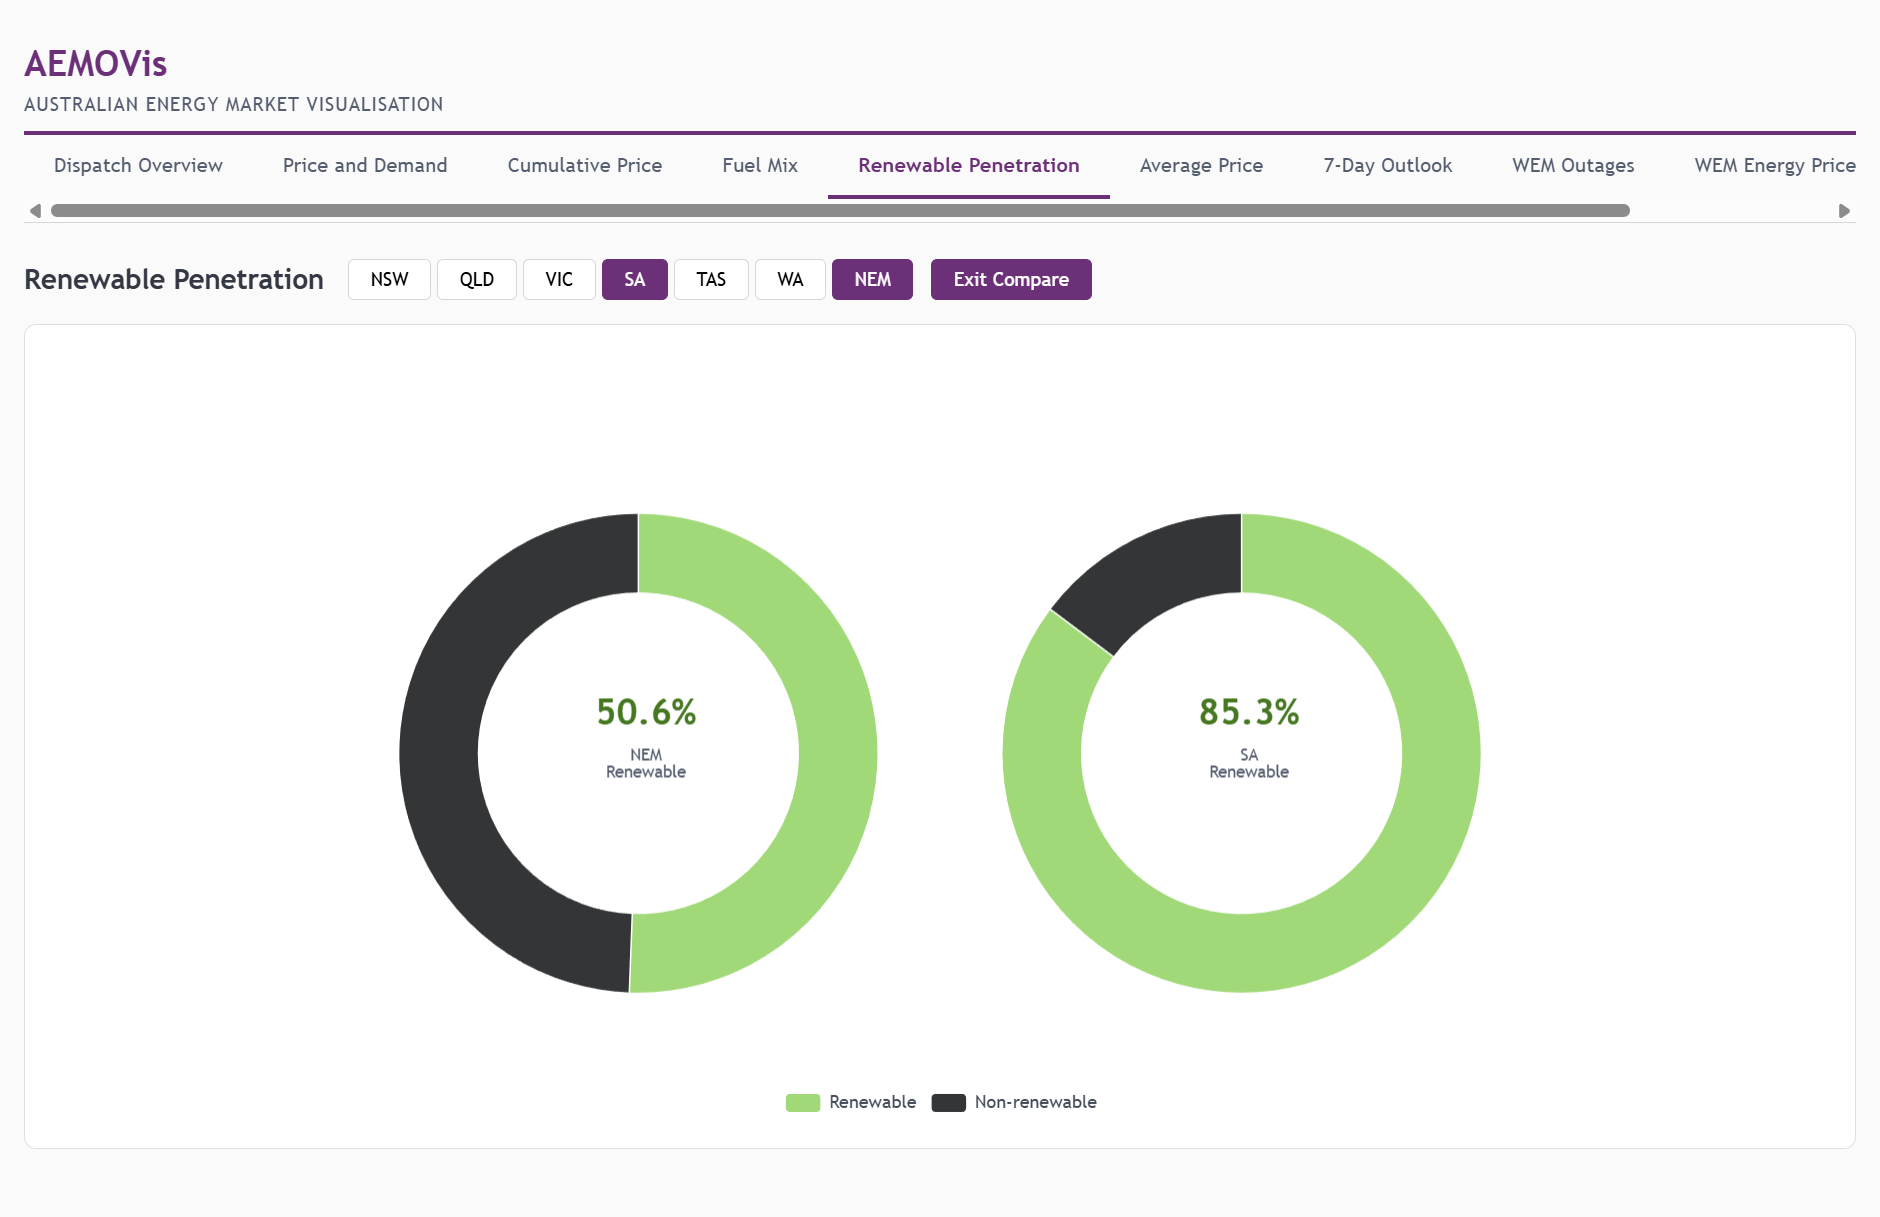
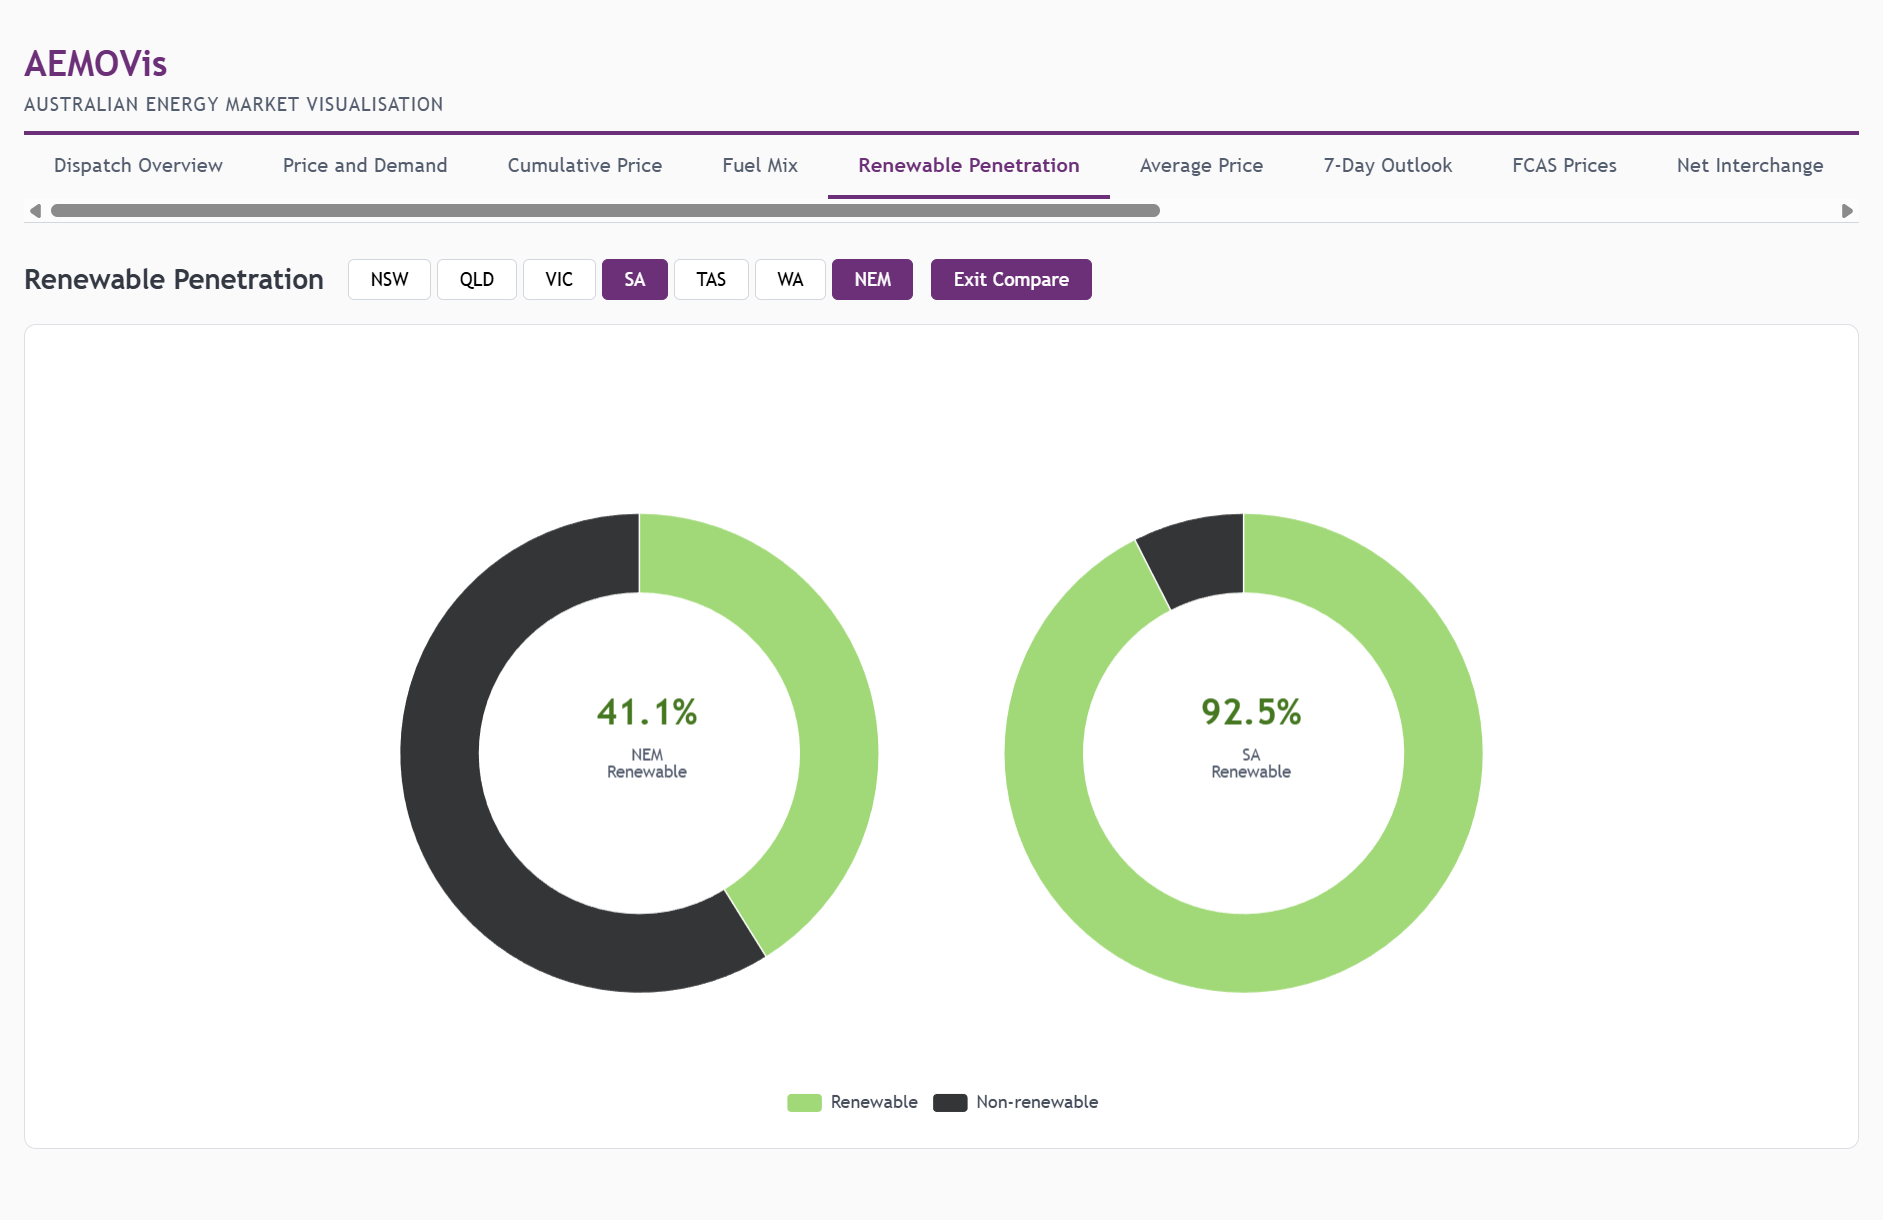
Update walkthrough with new pages and data source documentation
- Add 5 new page sections: FCAS Prices, Net Interchange, WA Dispatch,
  WA Reserves, WA Gen Map
- Add data source tables to all sections (endpoints, freshness,
  poll intervals, key fields)
- Update all screenshots with current UI state
- Renumber screenshots 8-15 to accommodate new pages
- Expand Technical Notes with architecture and API quirks

diff --git a/docs/AEMOVis-Walkthrough.md b/docs/AEMOVis-Walkthrough.md
@@ -14,7 +14,7 @@ The core design principle is that **markets are not first-class citizens — the
 
 ### Key Features
 
-- **10 visualisation pages** covering price, demand, generation, fuel mix, renewables, outlook, and outages
+- **15 visualisation pages** covering price, demand, generation, fuel mix, renewables, outlook, reserves, and outages
 - **Compare mode** on applicable pages — overlay XY charts or display side-by-side pie/donut charts for multiple regions simultaneously
 - **Live polling** with 60-second refresh and stale-data guards
 - **Responsive layout** for desktop, tablet, and mobile
@@ -30,9 +30,14 @@ The core design principle is that **markets are not first-class citizens — the
 5. [Renewable Penetration](#5-renewable-penetration)
 6. [Average Price](#6-average-price)
 7. [7-Day Outlook](#7-7-day-outlook)
-8. [WEM Outages](#8-wem-outages)
-9. [WEM Energy Price](#9-wem-energy-price)
-10. [DPV vs Demand](#10-dpv-vs-demand)
+8. [FCAS Prices](#8-fcas-prices)
+9. [Net Interchange](#9-net-interchange)
+10. [WEM Outages](#10-wem-outages)
+11. [WEM Energy Price](#11-wem-energy-price)
+12. [DPV vs Demand](#12-dpv-vs-demand)
+13. [WA Dispatch](#13-wa-dispatch)
+14. [WA Reserves](#14-wa-reserves)
+15. [WA Gen Map](#15-wa-gen-map)
 
 ---
 
@@ -44,6 +49,16 @@ The landing page provides a bird's-eye view of all six NEM regions (NSW, QLD, VI
 - **Demand vs generation** horizontal bars show supply-demand balance
 - **Interconnector flows** table shows import/export between neighbouring regions
 - WA is sourced from the WEM pulse feed; NEM regions from the AEMO dispatch API
+
+### Data Source
+
+| Aspect | NEM | WEM |
+|--------|-----|-----|
+| **Endpoint** | `/NEM/v1/PWS/NEMDashboard/elecSummary` | `pulse.csv` |
+| **Base URL** | `dashboards.public.aemo.com.au` | `data.wa.aemo.com.au` |
+| **Freshness** | 4.5 minutes | 25 minutes |
+| **Poll interval** | 60 seconds | 60 seconds |
+| **Fields** | `summary[]` (price, demand, gen, interconnectorFlows) | `TRADING_DAY_INTERVAL`, `ENERGY_PRICE`, `TOTAL_GEN_MW`, `TOTAL_DEMAND_MW` |
 
 ![Dispatch Overview](screenshots/01-dispatch-overview.png)
 
@@ -63,6 +78,15 @@ A dual-axis time-series chart showing spot price ($/MWh, left axis) and demand (
 
 Click **Compare** to overlay multiple regions on the same chart. Each region gets a distinct colour. Price lines are solid, demand lines are dashed. Forecast data appears as dotted lines. The APC marker is shown when at least one NEM region is selected.
 
+### Data Source
+
+| Aspect | NEM | WEM |
+|--------|-----|-----|
+| **Endpoint** | `/NEM/v1/PWS/NEMDashboard/priceAndDemand?timescale={5MIN|30MIN}` | `pulse.csv` |
+| **Freshness** | 4.5 minutes | 25 minutes |
+| **Time range** | ~2 days actuals + forecast | ~4 days rolling |
+| **Fields** | `rrp`, `totalDemand`, `forecastedRrp`, `forecastedDemand` | `ENERGY_PRICE`, `TOTAL_DEMAND_MW` |
+
 ![Price and Demand — Single Region](screenshots/02-price-demand.png)
 
 ![Price and Demand — Compare Mode (NSW vs QLD)](screenshots/02b-price-demand-compare.png)
@@ -76,6 +100,15 @@ Tracks the running cumulative price sum across the trading day for each NEM regi
 - **Per-region cumulative totals** updated every dispatch interval
 - **CPT threshold line** marks the trigger level
 - WA is not applicable (WEM has a different pricing mechanism)
+
+### Data Source
+
+| Aspect | Value |
+|--------|-------|
+| **Endpoint** | `/NEM/v1/PWS/NEMDashboard/cumulativePrice` |
+| **Freshness** | 4.5 minutes |
+| **Market** | NEM only |
+| **Fields** | `cumulativePrice` per region, `cpt` threshold |
 
 ![Cumulative Price](screenshots/03-cumulative-price.png)
 
@@ -94,6 +127,14 @@ A donut chart breaking down current generation by fuel type for the selected reg
 
 Click **Compare** to see side-by-side pie charts for multiple regions. Pies are evenly distributed across the width and auto-size — radius shrinks gracefully as more regions are added.
 
+### Data Source
+
+| Aspect | NEM | WEM |
+|--------|-----|-----|
+| **Endpoint** | `/NEM/v1/PWS/NEMDashboard/fuelMix?type=CURRENT` | `generation.csv` + `facility-meta-fuelmix.csv` |
+| **Freshness** | 4.5 minutes | 55 minutes |
+| **Fields** | `fuelType`, `generationMW` | Joined via `FACILITY_CODE` to get `PRIMARY_FUEL` |
+
 ![Fuel Mix — NEM Aggregate](screenshots/04-fuel-mix.png)
 
 ![Fuel Mix — Compare Mode (NEM vs NSW)](screenshots/04b-fuel-mix-compare.png)
@@ -105,12 +146,16 @@ Click **Compare** to see side-by-side pie charts for multiple regions. Pies are 
 A donut chart showing the percentage of current generation from renewable sources (wind, solar, hydro, biomass, battery, rooftop PV) versus non-renewable sources. The percentage is displayed prominently in the centre.
 
 - **Region selector** — individual NEM regions, WA, or NEM aggregate
-- Renewable classification covers: Wind, Solar, Hydro, Biomass, Battery, Rooftop PV, Distributed PV, Utility-scale Solar, Dpv
+- Renewable classification covers: Wind, Solar, Hydro, Biomass, Battery, Rooftop PV, Distributed PV, Utility-scale Solar
 - Green/dark colour scheme for clear visual distinction
 
 ### Compare Mode
 
 Click **Compare** to see side-by-side donut charts showing renewable penetration for multiple regions simultaneously. Each donut displays its region label and percentage, making cross-regional comparison immediate.
+
+### Data Source
+
+Same as Fuel Mix — derived by classifying fuel types as renewable/non-renewable.
 
 ![Renewable Penetration — NEM Aggregate](screenshots/05-renewable-penetration.png)
 
@@ -126,6 +171,14 @@ Displays the average spot price for each NEM region as a bar chart, derived from
 - Colour-coded by region for quick identification
 - Useful for spotting sustained price divergence between states
 
+### Data Source
+
+| Aspect | NEM | WEM |
+|--------|-----|-----|
+| **Endpoint** | `/NEM/v1/PWS/NEMDashboard/dailyAveragePrices?year={YYYY}&month={MM}` | `pulse.csv` |
+| **Freshness** | 4.5 minutes | 25 minutes |
+| **Calculation** | Pre-aggregated by AEMO | Computed from `ENERGY_PRICE` time series |
+
 ![Average Price](screenshots/06-average-price.png)
 
 ---
@@ -139,11 +192,72 @@ A tabular view of AEMO's Short Term Projected Assessment of System Adequacy (ST 
 - Critical for operational planning and market participant decision-making
 - NEM only — WEM outlook data is not available via the same API
 
+### Data Source
+
+| Aspect | Value |
+|--------|-------|
+| **Endpoint** | `/NEM/v1/PWS/NEMDashboard/sevenDayOutlook` |
+| **Freshness** | 4.5 minutes |
+| **Market** | NEM only |
+| **Fields** | `prettyDate`, `regionId`, `dataType`, `dataValue` (pivoted into table) |
+
 ![7-Day Outlook](screenshots/07-seven-day-outlook.png)
 
 ---
 
-## 8. WEM Outages
+## 8. FCAS Prices
+
+A heatmap displaying **Frequency Control Ancillary Services (FCAS)** prices across all NEM regions. FCAS markets are essential for maintaining grid frequency stability — generators and loads are paid to provide rapid response services.
+
+- **Heatmap** with regions on the Y-axis, FCAS services on the X-axis
+- **Colour intensity** represents price (blue scale: light = low, dark = high)
+- **10 FCAS services** displayed: Raise/Lower for 1s, 6s, 60s, 5m, and Regulation
+- **KPI row** shows average energy price, average FCAS price, highest FCAS price, and peak service/region
+
+### FCAS Services Explained
+
+| Service | Purpose |
+|---------|---------|
+| Raise 1s/6s/60s/5m | Increase generation/reduce load to raise frequency |
+| Lower 1s/6s/60s/5m | Decrease generation/increase load to lower frequency |
+| Raise/Lower Reg | Continuous regulation to maintain 50Hz |
+
+### Data Source
+
+| Aspect | Value |
+|--------|-------|
+| **Endpoint** | `/NEM/v1/PWS/NEMDashboard/elecSummary` (prices array) |
+| **Freshness** | 4.5 minutes |
+| **Market** | NEM only |
+| **Fields** | `raise1SecRrp`, `raise6SecRrp`, `raise60SecRrp`, `raise5MinRrp`, `raiseRegRrp`, `lower1SecRrp`, `lower6SecRrp`, `lower60SecRrp`, `lower5MinRrp`, `lowerRegRrp` |
+
+![FCAS Prices](screenshots/08-fcas-prices.png)
+
+---
+
+## 9. Net Interchange
+
+Shows import/export flows between NEM regions over time. Positive values indicate a region is exporting power; negative values indicate importing. Also includes a **Gen Breakdown** toggle to view scheduled vs semi-scheduled generation.
+
+- **Bar chart** showing net interchange per region over time
+- **Colour coding**: green = exporting, red = importing
+- **Region toggles** to filter which regions are displayed
+- **Gen Breakdown** mode shows stacked area of scheduled (dispatchable) vs semi-scheduled (wind/solar) generation
+
+### Data Source
+
+| Aspect | Value |
+|--------|-------|
+| **Endpoint** | `/NEM/v1/PWS/NEMDashboard/priceAndDemand?timescale=30MIN` |
+| **Freshness** | 4.5 minutes |
+| **Market** | NEM only |
+| **Fields** | `netInterchange`, `scheduledGeneration`, `semiScheduledGeneration` |
+
+![Net Interchange](screenshots/09-net-interchange.png)
+
+---
+
+## 10. WEM Outages
 
 Displays currently reported generation outages in the Western Australian Wholesale Electricity Market. When outages are active, they are listed with facility name, capacity affected, and outage type. When no outages are reported, a clear status message is shown.
 
@@ -152,21 +266,41 @@ Displays currently reported generation outages in the Western Australian Wholesa
 - Sourced from the WEM outage CSV feed
 - WEM-only page (NEM outage data uses a different reporting mechanism)
 
-![WEM Outages](screenshots/08-wem-outages.png)
+### Data Source
+
+| Aspect | Value |
+|--------|-------|
+| **Endpoint** | `pulse.csv` (outage columns) |
+| **Base URL** | `data.wa.aemo.com.au` |
+| **Freshness** | 25 minutes |
+| **Market** | WEM only |
+| **Fields** | `OUTAGE_GEN_MW`, facility outage flags |
+
+![WEM Outages](screenshots/10-wem-outages.png)
 
 ---
 
-## 9. WEM Energy Price
+## 11. WEM Energy Price
 
-> **Note:** This page is flagged as a duplicate. It overlaps with the Price and Demand page when WA is selected. Flagged for removal in a future update.
+> **Note:** This page overlaps with Price and Demand when WA is selected. Retained for direct WEM-focused access.
 
 A simple time-series chart showing the WEM energy price over the rolling ~4-day window from the pulse feed. The current spot price KPI is displayed above the chart.
 
-![WEM Energy Price (Deprecated)](screenshots/09-wem-energy-price.png)
+### Data Source
+
+| Aspect | Value |
+|--------|-------|
+| **Endpoint** | `pulse.csv` |
+| **Base URL** | `data.wa.aemo.com.au` |
+| **Freshness** | 25 minutes |
+| **Market** | WEM only |
+| **Fields** | `TRADING_DAY_INTERVAL`, `ENERGY_PRICE` |
+
+![WEM Energy Price](screenshots/11-wem-energy-price.png)
 
 ---
 
-## 10. DPV vs Demand
+## 12. DPV vs Demand
 
 A dual-axis chart specific to Western Australia, showing the relationship between grid operational demand and distributed photovoltaic (rooftop solar) generation. This is particularly important in WA where rooftop solar penetration is among the highest in the world and significantly impacts grid operations.
 
@@ -176,14 +310,141 @@ A dual-axis chart specific to Western Australia, showing the relationship betwee
 - The inverse relationship between DPV and demand is clearly visible: as solar output rises during the day, net demand drops
 - WEM-only page sourced from the DPV/operational demand CSV feed
 
-![DPV vs Demand](screenshots/10-dpv-vs-demand.png)
+### Data Source
+
+| Aspect | Value |
+|--------|-------|
+| **Endpoint** | `distributed-pv_opdemand.csv` |
+| **Base URL** | `data.wa.aemo.com.au/public/infographic/dpvopdemand/` |
+| **Freshness** | 25 minutes |
+| **Market** | WEM only |
+| **Fields** | `TRADING_INTERVAL`, `OPERATIONAL_DEMAND_MW`, `ESTIMATED_DPV_MW` |
+
+![DPV vs Demand](screenshots/12-dpv-vs-demand.png)
+
+---
+
+## 13. WA Dispatch
+
+A stacked area chart showing WA generation by fuel type over 2 days (96 × 30-minute intervals), with a price line overlay. This provides a detailed view of Western Australia's generation mix and how it correlates with price movements.
+
+- **Stacked area** by fuel type (Gas, Coal, Wind, Solar, Battery, etc.)
+- **Price overlay** (red line, right axis) shows energy price trajectory
+- **KPI row** — current generation, current price, peak generation, capacity utilization
+- Fuels ordered by standard hierarchy: Coal → Gas → Hydro → Wind → Solar → Battery → Biomass
+
+### Data Source
+
+| Aspect | Value |
+|--------|-------|
+| **Generation endpoint** | `generation.csv` |
+| **Metadata endpoint** | `facility-meta-fuelmix.csv` |
+| **Price endpoint** | `pulse.csv` |
+| **Base URL** | `data.wa.aemo.com.au` |
+| **Freshness** | Generation: 55 min, Pulse: 25 min, Metadata: 1 hour |
+| **Market** | WEM only |
+| **Fields** | `I01`–`I48` (interval generation), `FACILITY_CODE`, `PRIMARY_FUEL`, `MAX_GEN_CAPACITY` |
+
+![WA Dispatch](screenshots/13-wa-dispatch.png)
+
+---
+
+## 14. WA Reserves
+
+Displays spinning reserve, LFAS (Load Following Ancillary Service) requirements, and forecast vs actual generation in the WEM. Essential for monitoring WA grid stability margins.
+
+- **Forecast Demand** (dashed blue) — AEMO's demand forecast
+- **Actual Generation** (solid teal) — real-time total generation
+- **RTD Generation** (green) — Real-Time Dispatch generation
+- **LFAS Up Requirement** (purple, right axis) — load following reserve requirement
+- **Spinning Reserve** (red, right axis) — available spinning reserve
+- **KPI row** — LFAS requirement, spinning reserve, actual generation, forecast accuracy
+
+### Data Source
+
+| Aspect | Value |
+|--------|-------|
+| **Endpoint** | `pulse.csv` |
+| **Base URL** | `data.wa.aemo.com.au` |
+| **Freshness** | 25 minutes |
+| **Market** | WEM only |
+| **Fields** | `RTD_TOTAL_SPINNING_RESERVE`, `LFAS_UP_REQUIREMENT_MW`, `FORECAST_EOI_MW`, `ACTUAL_TOTAL_GENERATION`, `RTD_TOTAL_GENERATION` |
+
+![WA Reserves](screenshots/14-wa-reserves.png)
+
+---
+
+## 15. WA Gen Map
+
+A geographic map of Western Australia with scatter overlay showing all registered generation facilities. Each facility is positioned by latitude/longitude, sized by current output, and coloured by fuel type.
+
+- **Scatter overlay** on Australia map (WA highlighted)
+- **Symbol size** proportional to current MW output
+- **Colour by fuel type** — consistent with other fuel mix visualisations
+- **Legend filtering** — click fuel types to show/hide
+- **KPI row** — data timestamp, total facilities, generating facilities, total output, installed capacity
+- Pan and zoom enabled for detailed exploration
+
+### Data Source
+
+| Aspect | Value |
+|--------|-------|
+| **Generation endpoint** | `generation.csv` |
+| **Metadata endpoint** | `facility-meta-fuelmix.csv` |
+| **Base URL** | `data.wa.aemo.com.au` |
+| **Freshness** | Generation: 55 min, Metadata: 1 hour |
+| **Market** | WEM only |
+| **Fields** | `I01` (current output), `MAX_GEN_CAPACITY`, `LATITUDE`, `LONGITUDE`, `PRIMARY_FUEL`, `DISPLAY_NAME` |
+| **GeoJSON** | Australia states (WA region highlighted) |
+
+**Note:** Some facility coordinates in AEMO metadata are incorrect (defaulting to Perth CBD). The application includes coordinate corrections for known facilities based on Global Energy Observatory, Wikipedia, and planning documents.
+
+![WA Gen Map](screenshots/15-wa-gen-map.png)
 
 ---
 
 ## Technical Notes
 
-- **Data sources:** NEM data via AEMO's public REST API; WEM data via AEMO's IIS-hosted CSV feeds
-- **Polling:** All data atoms refresh on a 60-second interval with freshness guards to avoid redundant fetches
-- **Charting:** Built with Apache ECharts for high-performance, interactive visualisations
-- **Architecture:** Vanilla JavaScript SPA with nanostores for reactive state management, ky for HTTP, and PapaParse for CSV parsing
-- **Compare mode:** Available on Price and Demand, Fuel Mix, and Renewable Penetration pages. XY charts use overlaid series with region-specific colours; pie/donut charts use side-by-side positioning with adaptive sizing
+### Architecture
+
+- **Framework:** Vanilla JavaScript SPA (no React/Vue/Angular)
+- **Charting:** Apache ECharts 6.x for high-performance, interactive visualisations
+- **State:** nanostores for reactive atom-based state management
+- **HTTP:** ky for NEM REST API (with retry/timeout), native fetch for WEM CSVs
+- **CSV Parsing:** PapaParse for WEM data files
+- **Mapping:** ECharts geo component with Australia GeoJSON
+
+### Data Sources Summary
+
+| Market | Base URL | Format | Auth |
+|--------|----------|--------|------|
+| NEM | `dashboards.public.aemo.com.au` | JSON REST | API key (public) |
+| WEM | `data.wa.aemo.com.au` | CSV files | None (CORS open) |
+
+### Polling & Freshness
+
+The application uses a dual-layer freshness system:
+
+1. **fetchIfStale()** — On page mount, only fetches if data is older than freshness threshold
+2. **Poller** — Background 60-second interval checks freshness before refetch
+
+| Data Type | Freshness | Poll Interval |
+|-----------|-----------|---------------|
+| NEM API data | 4.5 minutes | 60 seconds |
+| WEM pulse.csv | 25 minutes | 60 seconds |
+| WEM generation.csv | 55 minutes | 60 seconds |
+| WEM facility metadata | 1 hour | 60 seconds |
+
+### WEM API Quirks
+
+- **Accept header required:** WEM's IIS server returns 406 unless a browser-style Accept header is sent
+- **CSV format:** All WEM data is CSV (not JSON)
+- **No JSON APIs:** Historical JSON endpoints (ReferenceTradingPrice, EssentialServicesPricing) return 404
+
+### Compare Mode
+
+Available on: **Price and Demand**, **Fuel Mix**, and **Renewable Penetration**
+
+- XY charts use overlaid series with region-specific colours
+- Pie/donut charts use side-by-side positioning with adaptive sizing
+- Radius shrinks gracefully as more regions are selected
